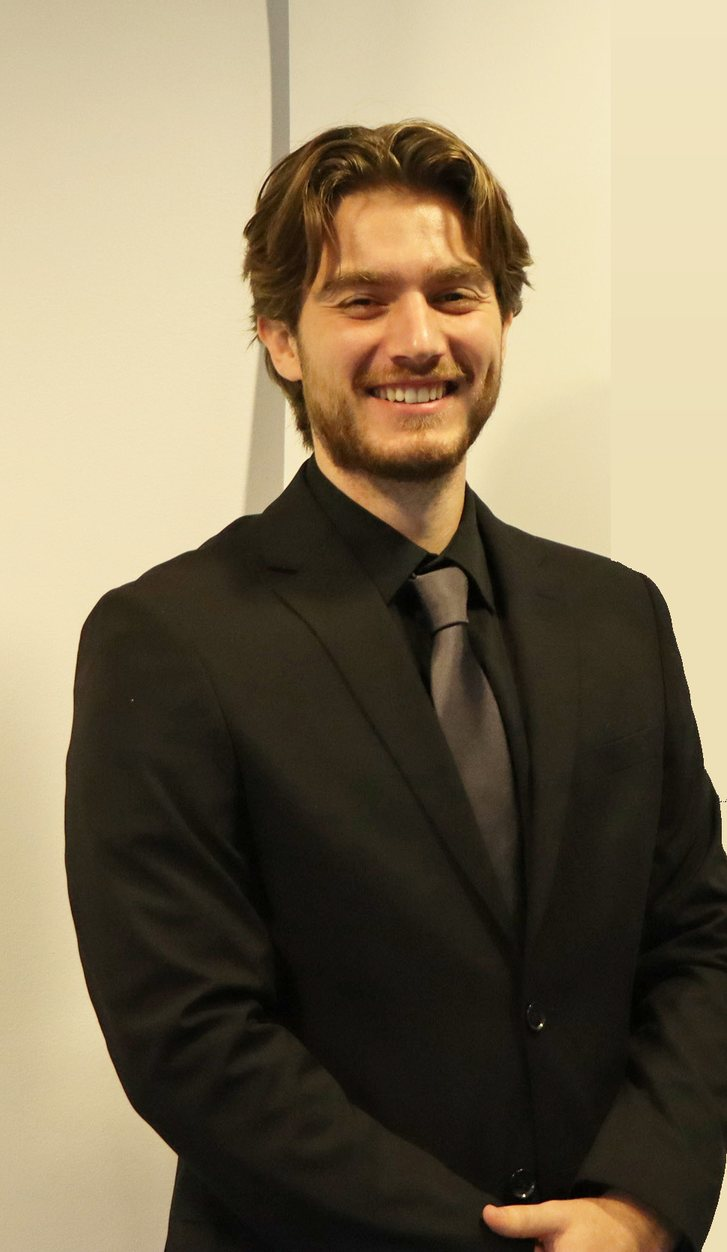
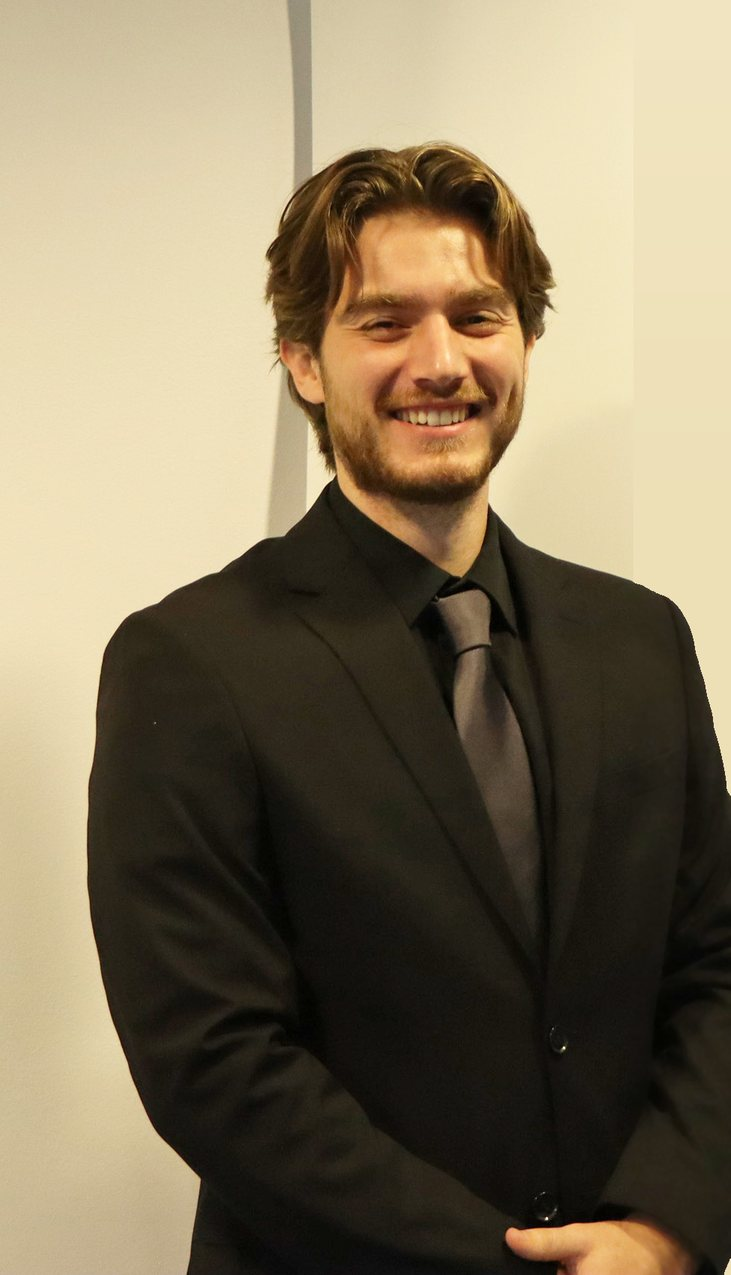
Fotografija: prikaži cijelu, manja na mobitelu
Claude-Session: https://claude.ai/code/session_01VbVStPSikNFmzCztLTbRuz

diff --git a/index.html b/index.html
@@ -69,10 +69,11 @@
   .about .left p{font-size:.96rem;opacity:.88}
   .about .left p+p{margin-top:14px}
   .about .quote-col{background:var(--olive-2)}
-  .about .photo{padding:0;background:url("img/antonio-odijelo.jpg") center top / cover no-repeat;min-height:660px}
+  .about .photo{padding:0;background:#e9dfc8;display:flex;align-items:flex-end;justify-content:center;overflow:hidden}
+  .about .photo img{display:block;width:100%;height:100%;object-fit:cover;object-position:center top}
   .about .quote{font-family:var(--serif);font-size:clamp(2.2rem,4vw,3.4rem);text-align:center}
   .about .quote small{display:block;font-family:var(--sans);font-size:.72rem;letter-spacing:.22em;text-transform:uppercase;margin-top:22px;opacity:.6}
-  @media (max-width:900px){.about{grid-template-columns:1fr}.about .col{padding:48px 24px}.scroll{display:none}.about .photo{min-height:640px;order:-1}}
+  @media (max-width:900px){.about{grid-template-columns:1fr}.about .col{padding:48px 24px}.scroll{display:none}.about .photo{order:-1;padding:32px 24px 0;background:var(--olive)}.about .photo img{height:auto;max-width:340px;object-fit:contain}}
 
   /* SECTIONS */
   section.block{padding:110px 0}
@@ -194,7 +195,7 @@
     <p>Kroz studij sam stekao znanja iz makro i mikroekonomske analize, kreiranja politika, strukturiranja intervjua i fokus grupa, izrade istraživačkih instrumenata poput anketa i analitičkih matrica te statističke obrade i prikazivanja podataka.</p>
     <p>Sebe u budućnosti vidim u visokom obrazovanju, financijskom sektoru, agencijama za istraživanje tržišta ili ljudskim potencijalima.</p>
   </div>
-  <div class="col photo" role="img" aria-label="Antonio Treppo"></div>
+  <div class="col photo"><img src="img/antonio-odijelo.jpg?v=3" alt="Antonio Treppo" width="731" height="1275"></div>
   <div class="col quote-col reveal">
     <div class="quote">Podaci pričaju<br>priče o ljudima.<small>Sociologija · Statistika · Politike</small></div>
   </div>
